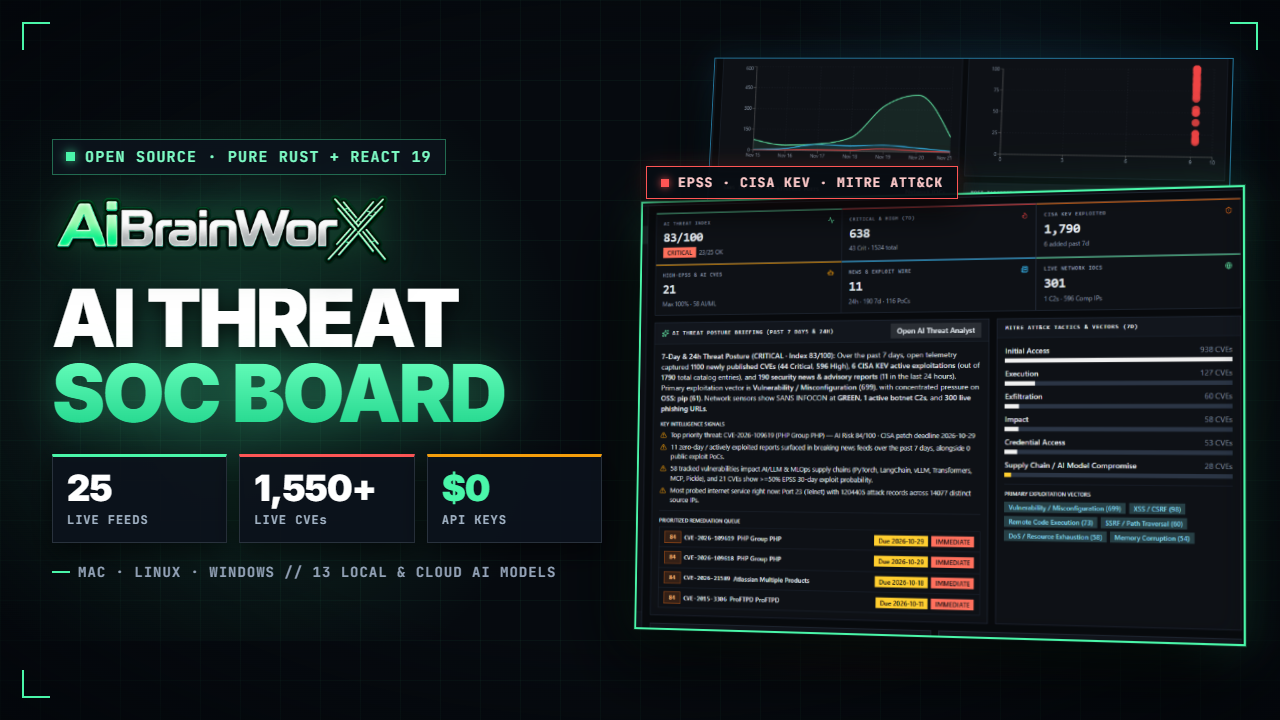
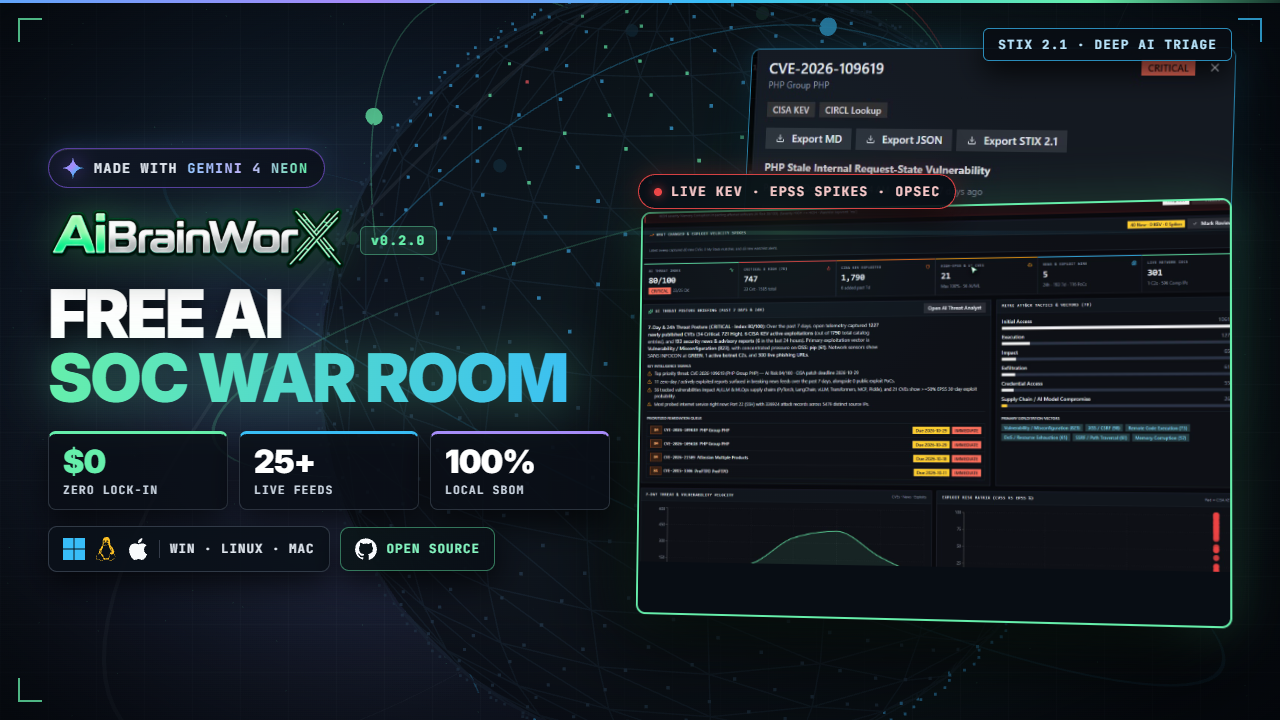
docs(readme): embed v0.2.0 YouTube launch video and updated thumbnail

diff --git a/README.md b/README.md
@@ -1,15 +1,15 @@
 # AiBrainWorX — AI CyberSecurity Threat Analysis Board
 
-[![Watch Launch Video on YouTube](https://img.shields.io/badge/YouTube-Watch_Launch_Video-FF0000?style=for-the-badge&logo=youtube&logoColor=white)](https://youtu.be/5HoKsq8y_2s)
+[![Watch Launch Video on YouTube](https://img.shields.io/badge/YouTube-Watch_v0.2.0_Launch_Video-FF0000?style=for-the-badge&logo=youtube&logoColor=white)](https://www.youtube.com/watch?v=GVmWoFoDenw)
 [![Interactive Demo](https://img.shields.io/badge/Live_Demo-GitHub_Pages_(Synthetic)-66efab?style=for-the-badge&logo=github)](https://aibrainworxdotcom.github.io/aibrainworx-ai-threat-board/)
 [![CI](https://img.shields.io/github/actions/workflow/status/AiBrainWorXdotCom/aibrainworx-ai-threat-board/ci.yml?branch=main&style=for-the-badge&label=CI)](https://github.com/AiBrainWorXdotCom/aibrainworx-ai-threat-board/actions/workflows/ci.yml)
 [![License: MIT](https://img.shields.io/badge/License-MIT-22c55e?style=for-the-badge)](LICENSE)
 
 **An open-source (MIT), local-first, security-hardened SOC & threat-intelligence correlation dashboard packaged as a single executable binary (Rust + SQLite WAL + React 19).**
 
-[![Watch the AiBrainWorX AI Threat Board Launch Video on YouTube](docs/screenshots/youtube-thumbnail.png)](https://youtu.be/5HoKsq8y_2s)
+[![Watch the AiBrainWorX v0.2.0 AI Threat Board Launch Video on YouTube](docs/screenshots/youtube-thumbnail.png)](https://www.youtube.com/watch?v=GVmWoFoDenw)
 
-> **▶ [Watch the Launch Video & Live App Walkthrough on YouTube](https://youtu.be/5HoKsq8y_2s)**
+> **▶ [Watch the v0.2.0 Launch Video & Live App Walkthrough on YouTube](https://www.youtube.com/watch?v=GVmWoFoDenw)**
 
 ---
 
@@ -17,7 +17,7 @@
 
 AiBrainWorX CyberSecurity Threat Analysis Board was created in response to recent high-velocity cybersecurity headlines — widespread edge and perimeter zero-days, escalating ransomware campaigns, rapid CISA KEV additions, and an emerging wave of vulnerabilities targeting AI/LLM infrastructure (`PyTorch`, `LangChain`, `vLLM`, `LiteLLM`, `Gradio`, `Ray`, `MCP` servers, and unsafe model serialization). Security engineers, developers, and researchers often have to piece together fragmented advisories across NVD, KEV, EPSS, GitHub, Exploit-DB, IOC blocklists, and breaking security wires just to answer one question: *what matters right now, and how exposed is our stack?*
 
-We built this board to consolidate those public intelligence streams into one crisp, zero-lock-in workspace that runs completely locally on **macOS, Linux, and Windows** — with a zero-dependency Rust risk-scoring and correlation engine out of the box, plus optional bring-your-own local LLM (`Ollama`, `LM Studio`, `llama.cpp`, `vLLM`) or cloud AI provider support. See the live dashboard, deep AI triage, and IOC checker in action in the **[YouTube launch video](https://youtu.be/5HoKsq8y_2s)**. It is released as **open source under the [MIT License](LICENSE)** so any team or defender can audit, extend, and self-host it freely.
+We built this board to consolidate those public intelligence streams into one crisp, zero-lock-in workspace that runs completely locally on **macOS, Linux, and Windows** — with a zero-dependency Rust risk-scoring and correlation engine out of the box, plus optional bring-your-own local LLM (`Ollama`, `LM Studio`, `llama.cpp`, `vLLM`) or cloud AI provider support. See the live dashboard, local SBOM correlator, deep AI triage, OPSEC Redact Mode, and IOC checker in action in the **[v0.2.0 YouTube launch video](https://www.youtube.com/watch?v=GVmWoFoDenw)**. It is released as **open source under the [MIT License](LICENSE)** so any team or defender can audit, extend, and self-host it freely.
 
 ---
 
